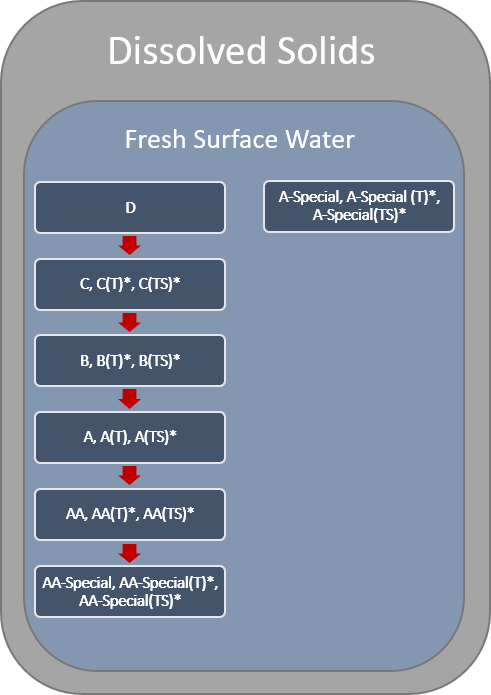
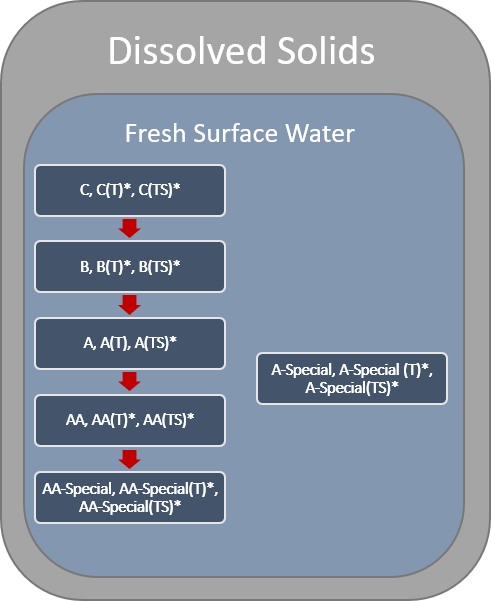
New rendering of the document.

diff --git a/docs/water-quality-standards.html b/docs/water-quality-standards.html
@@ -52,68 +52,6 @@
 
 
 
-<style type="text/css">
-a.sourceLine { display: inline-block; line-height: 1.25; }
-a.sourceLine { pointer-events: none; color: inherit; text-decoration: inherit; }
-a.sourceLine:empty { height: 1.2em; }
-.sourceCode { overflow: visible; }
-code.sourceCode { white-space: pre; position: relative; }
-pre.sourceCode { margin: 0; }
-@media screen {
-div.sourceCode { overflow: auto; }
-}
-@media print {
-code.sourceCode { white-space: pre-wrap; }
-a.sourceLine { text-indent: -1em; padding-left: 1em; }
-}
-pre.numberSource a.sourceLine
-  { position: relative; left: -4em; }
-pre.numberSource a.sourceLine::before
-  { content: attr(title);
-    position: relative; left: -1em; text-align: right; vertical-align: baseline;
-    border: none; pointer-events: all; display: inline-block;
-    -webkit-touch-callout: none; -webkit-user-select: none;
-    -khtml-user-select: none; -moz-user-select: none;
-    -ms-user-select: none; user-select: none;
-    padding: 0 4px; width: 4em;
-    color: #aaaaaa;
-  }
-pre.numberSource { margin-left: 3em; border-left: 1px solid #aaaaaa;  padding-left: 4px; }
-div.sourceCode
-  {  }
-@media screen {
-a.sourceLine::before { text-decoration: underline; }
-}
-code span.al { color: #ff0000; font-weight: bold; } /* Alert */
-code span.an { color: #60a0b0; font-weight: bold; font-style: italic; } /* Annotation */
-code span.at { color: #7d9029; } /* Attribute */
-code span.bn { color: #40a070; } /* BaseN */
-code span.bu { } /* BuiltIn */
-code span.cf { color: #007020; font-weight: bold; } /* ControlFlow */
-code span.ch { color: #4070a0; } /* Char */
-code span.cn { color: #880000; } /* Constant */
-code span.co { color: #60a0b0; font-style: italic; } /* Comment */
-code span.cv { color: #60a0b0; font-weight: bold; font-style: italic; } /* CommentVar */
-code span.do { color: #ba2121; font-style: italic; } /* Documentation */
-code span.dt { color: #902000; } /* DataType */
-code span.dv { color: #40a070; } /* DecVal */
-code span.er { color: #ff0000; font-weight: bold; } /* Error */
-code span.ex { } /* Extension */
-code span.fl { color: #40a070; } /* Float */
-code span.fu { color: #06287e; } /* Function */
-code span.im { } /* Import */
-code span.in { color: #60a0b0; font-weight: bold; font-style: italic; } /* Information */
-code span.kw { color: #007020; font-weight: bold; } /* Keyword */
-code span.op { color: #666666; } /* Operator */
-code span.ot { color: #007020; } /* Other */
-code span.pp { color: #bc7a00; } /* Preprocessor */
-code span.sc { color: #4070a0; } /* SpecialChar */
-code span.ss { color: #bb6688; } /* SpecialString */
-code span.st { color: #4070a0; } /* String */
-code span.va { color: #19177c; } /* Variable */
-code span.vs { color: #4070a0; } /* VerbatimString */
-code span.wa { color: #60a0b0; font-weight: bold; font-style: italic; } /* Warning */
-</style>
 
 </head>
 
@@ -133,8 +71,10 @@ code span.wa { color: #60a0b0; font-weight: bold; font-style: italic; } /* Warni
 <li class="chapter" data-level="2.2" data-path="calm.html"><a href="calm.html#data-modernization"><i class="fa fa-check"></i><b>2.2</b> Data Modernization</a></li>
 </ul></li>
 <li class="chapter" data-level="3" data-path="water-quality-standards.html"><a href="water-quality-standards.html"><i class="fa fa-check"></i><b>3</b> Water Quality Standards</a><ul>
-<li class="chapter" data-level="3.1" data-path="water-quality-standards.html"><a href="water-quality-standards.html#waterbody-class-hierarchy"><i class="fa fa-check"></i><b>3.1</b> Waterbody Class Hierarchy</a></li>
-<li class="chapter" data-level="3.2" data-path="water-quality-standards.html"><a href="water-quality-standards.html#waterbody-uses"><i class="fa fa-check"></i><b>3.2</b> Waterbody Uses</a></li>
+<li class="chapter" data-level="3.1" data-path="water-quality-standards.html"><a href="water-quality-standards.html#waterbody-class-hierarchy"><i class="fa fa-check"></i><b>3.1</b> Waterbody Class Hierarchy</a><ul>
+<li class="chapter" data-level="3.1.1" data-path="water-quality-standards.html"><a href="water-quality-standards.html#descrepencies"><i class="fa fa-check"></i><b>3.1.1</b> Descrepencies</a></li>
+</ul></li>
+<li class="chapter" data-level="3.2" data-path="water-quality-standards.html"><a href="water-quality-standards.html#designated-uses"><i class="fa fa-check"></i><b>3.2</b> Designated Uses</a></li>
 </ul></li>
 </ul>
 
@@ -155,31 +95,69 @@ code span.wa { color: #60a0b0; font-weight: bold; font-style: italic; } /* Warni
             <section class="normal" id="section-">
 <div id="water-quality-standards" class="section level1">
 <h1><span class="header-section-number">3</span> Water Quality Standards</h1>
-<p>Data was preprocessed to resemble the expected output from the athorotative databases that will become available as part of the Data Modernization effort <a href="calm.html#data-modernization">Data Modernization</a>.</p>
-<div class="sourceCode" id="cb1"><pre class="sourceCode r"><code class="sourceCode r"><a class="sourceLine" id="cb1-1" title="1"><span class="kw">data</span>(nysdec_wqs)</a></code></pre></div>
-<pre><code>## Warning in data(nysdec_wqs): data set &#39;nysdec_wqs&#39; not found</code></pre>
 <div id="waterbody-class-hierarchy" class="section level2">
 <h2><span class="header-section-number">3.1</span> Waterbody Class Hierarchy</h2>
-<p>Fresh and Saline Surface Water classes generally conform to a descending alphabetical hierarchy (Figure <a href="water-quality-standards.html#fig:wqs-general">3.1</a>).The saline surface water class I’s are only associated with secondary contact recreation and fishing, and therefore are treated independently of the other saline surface water classes. WQS assigned to upstream classes are applicable to all downstream classes. The most upstream class associated with a WQS will be refered to as the “root” class for a given standard. For example, WQS with a root of D and SD classes will be applicable to all downstream fresh surface water classes (i.e., C, B, A, A-Special, AA, AA-Special, and their associated Trout (T) and Trout Spawning (TS) variants) and saline surface water classes (i.e., SC, SB, and SA), respectively. In many instances, the WQS become increasingly more restrictive moving downstream through the hierarchy. D and SD represent the most upstream classes in fresh and saline surface waters, respectively, and therefore influence all other classes. However, D and SD classes do not always represent the root class for a given WQS.</p>
+<p>Fresh and saline surface water classes generally conform to a descending alphabetical hierarchy (Figure <a href="water-quality-standards.html#fig:wqs-general">3.1</a>). Class D represents the most upstream class of the fresh surface waters, while class AA-Special represents the most downstream class. Similarly, class SD represents the most upstream class of the saline surface waters, while class SA represents the most downstream class. The saline surface water class I’s are only associated with secondary contact recreation and fishing, and therefore are treated independently of the other saline surface water classes– the relationship between waterbody classes and designated uses is discussed further in the <a href="water-quality-standards.html#designated-uses">Designated Uses</a> section.</p>
 <div class="figure" style="text-align: center"><span id="fig:wqs-general"></span>
-<img src="images/wqs_logic/wqs-logic_general.png" alt="." width="348" />
+<img src="images/wqs_logic/wqs-logic_general.png" alt=" The general waterbody class hierarchy for which New York State Deparment of Environmental Conservation. Water quality standards are inherited in descending alphabetical order." width="800px" />
 <p class="caption">
-Figure 3.1: .
+Figure 3.1:  The general waterbody class hierarchy for which New York State Deparment of Environmental Conservation. Water quality standards are inherited in descending alphabetical order.
 </p>
 </div>
+<p>WQS assigned to upstream classes are inherited by all downstream classes. The most upstream class associated with a WQS will be refered to as the “root” class for a given standard. For example, WQS with a root of D and SD classes will be applicable to all downstream fresh surface water classes (i.e., C, B, A, A-Special, AA, AA-Special, and their associated Trout (T) and Trout Spawning (TS) variants) and saline surface water classes (i.e., SC, SB, and SA), respectively. In many instances, the WQSs become increasingly more restrictive moving downstream through the hierarchy. D and SD represent the most upstream classes in fresh and saline surface waters, respectively, and therefore influence all other classes. However, D and SD classes do not always represent the root class for a given WQS. Although most WQS are inherited according to this logic, there are multiple descrepencies.</p>
+<div id="descrepencies" class="section level3">
+<h3><span class="header-section-number">3.1.1</span> Descrepencies</h3>
+<p>The following WQS do not follow the logic depicted in Figure <a href="water-quality-standards.html#fig:wqs-general">3.1</a>.</p>
+<div id="aquatic-acute" class="section level4">
+<h4><span class="header-section-number">3.1.1.1</span> Aquatic (Acute)</h4>
+Aquatic (Acute) designates at type of WQS. The class hierarchy associated with Aquatic (Acute) WQSs are treated inconsistently by NYSDEC. In some instances the class hierarchy follows the rules depicted in Figure <a href="water-quality-standards.html#fig:wqs-general">3.1</a>, but there are multiple instances where Aquatic (Acute) WQSs are only applicable to fresh and saline surface water classes D and SD, respectively (Figure <a href="water-quality-standards.html#fig:wqs-aa">3.2</a>).
 <div class="figure" style="text-align: center"><span id="fig:wqs-aa"></span>
-<img src="images/wqs_logic/wqs-logic_aquatic_acute.png" alt="Many water quality standards of type, Aquatic (Acute), are only applicable for fresh and saline surface waters D and SD, respectively. Therefore, Aquatic (Acute) standards are not always inherited by the classes downstream of D and SD in their respective hierarchies. There is no standaridized logic dictating when Aquatic (Acute) water quality standards are or are not inherited by their descendants." width="335" />
+<img src="images/wqs_logic/wqs-logic_aquatic_acute.png" alt="Many water quality standards of type, Aquatic (Acute), are only applicable for fresh and saline surface waters D and SD, respectively. Therefore, Aquatic (Acute) standards are not always inherited by the classes downstream of D and SD in their respective hierarchies. There is no standaridized logic dictating when Aquatic (Acute) water quality standards are or are not inherited by their descendants." width="500px" />
 <p class="caption">
 Figure 3.2: Many water quality standards of type, Aquatic (Acute), are only applicable for fresh and saline surface waters D and SD, respectively. Therefore, Aquatic (Acute) standards are not always inherited by the classes downstream of D and SD in their respective hierarchies. There is no standaridized logic dictating when Aquatic (Acute) water quality standards are or are not inherited by their descendants.
 </p>
 </div>
-<p><img src="images/wqs_logic/wqs-logic_do-ammonia.png" width="368" style="display: block; margin: auto;" /></p>
-<p><img src="images/wqs_logic/wqs-logic_dissolved-solids.png" width="246" style="display: block; margin: auto;" /></p>
-<p><img src="images/wqs_logic/wqs-logic_total-coliforms.png" width="436" style="display: block; margin: auto;" /></p>
-<p><img src="images/wqs_logic/wqs-logic_fecal-coliforms.png" width="440" style="display: block; margin: auto;" /></p>
 </div>
-<div id="waterbody-uses" class="section level2">
-<h2><span class="header-section-number">3.2</span> Waterbody Uses</h2>
+<div id="trout-and-trout-spawning-waters" class="section level4">
+<h4><span class="header-section-number">3.1.1.2</span> Trout and Trout Spawning Waters</h4>
+<p>Fresh surface water classes C, B, A, A-Special, AA, and AA-Special have variants designating Trout (T) and Trout Spawning (TS) waterbodies (e.g., C(T) and C(TS)). For the majority of parameters, these variants have the same WQS as the non-T/TS waterbody classes (Figure <a href="water-quality-standards.html#fig:wqs-general">3.1</a>). Dissolved oxygen and ammonia as NH<sub>3</sub> WQS differ between non-T/TS, T, and TS waterbody class variants (Figure <a href="water-quality-standards.html#fig:wqs-do-ammonia">3.3</a>); non-T/TS variants have the least stringent standards, while TS variants have the most stringent standards.</p>
+<div class="figure" style="text-align: center"><span id="fig:wqs-do-ammonia"></span>
+<img src="images/wqs_logic/wqs-logic_do-ammonia.png" alt="New York State's fresh surface water dissolved oxygen and ammonia as NH~3~ water quality standards for class C, B, A, A-Special, AA, and AA-Special differ amoung Trout (T) and Trout Spawning (TS) class variants." width="800px" />
+<p class="caption">
+Figure 3.3: New York State’s fresh surface water dissolved oxygen and ammonia as NH<sub>3</sub> water quality standards for class C, B, A, A-Special, AA, and AA-Special differ amoung Trout (T) and Trout Spawning (TS) class variants.
+</p>
+</div>
+</div>
+<div id="dissolved-solids" class="section level4">
+<h4><span class="header-section-number">3.1.1.3</span> Dissolved Solids</h4>
+<p>The WQS for dissolved solids in fresh surface waters is defined as “Shall be kept as low as practicable to maintain the best usage of waters but in no case shall it exceed 500 mg/L.” for classes C, B, A, AA, and AA-Special (Figure <a href="water-quality-standards.html#fig:wqs-dissolved-solids">3.4</a>). The standard for class A-Special is “Shall not exceed 200 mg/L.” This deviates from the general logic depicted in Figure <a href="water-quality-standards.html#fig:wqs-general">3.1</a> becuase the A-Special class is more stringent than it’s downstream classes, AA and AA-Special.</p>
+<div class="figure" style="text-align: center"><span id="fig:wqs-dissolved-solids"></span>
+<img src="images/wqs_logic/wqs-logic_dissolved-solids.png" alt="New York State's fresh surface water dissolved solids water quality standards are more stringent for class A-Special than the other waterbody classes. This deviates from the general logic that the downstream classes (i.e., AA and AA-Special) will inherit the standards of class A-Special." width="600px" />
+<p class="caption">
+Figure 3.4: New York State’s fresh surface water dissolved solids water quality standards are more stringent for class A-Special than the other waterbody classes. This deviates from the general logic that the downstream classes (i.e., AA and AA-Special) will inherit the standards of class A-Special.
+</p>
+</div>
+</div>
+<div id="total-and-fecal-coliforms" class="section level4">
+<h4><span class="header-section-number">3.1.1.4</span> Total and Fecal Coliforms</h4>
+The WQSs for total and fecal coliforms in fresh surface waters follow the logic dictated in Figure <a href="water-quality-standards.html#fig:wqs-general">3.1</a>, except there is no total coliform standard appicable to class AA-Special (Figure <a href="water-quality-standards.html#fig:wqs-total-coliforms">3.5</a>) and there are no fecal coliform standards appicable to class AA or AA-Special (Figure <a href="water-quality-standards.html#fig:wqs-fecal-coliforms">3.6</a>).
+<div class="figure" style="text-align: center"><span id="fig:wqs-total-coliforms"></span>
+<img src="images/wqs_logic/wqs-logic_total-coliforms.png" alt="There is no total coliform standard defined for fresh water surface class AA-Special in New York State." width="600px" />
+<p class="caption">
+Figure 3.5: There is no total coliform standard defined for fresh water surface class AA-Special in New York State.
+</p>
+</div>
+<div class="figure" style="text-align: center"><span id="fig:wqs-fecal-coliforms"></span>
+<img src="images/wqs_logic/wqs-logic_fecal-coliforms.png" alt="There are no fecal coliform standards defined for fresh water surface classes AA or AA-Special in New York State." width="600px" />
+<p class="caption">
+Figure 3.6: There are no fecal coliform standards defined for fresh water surface classes AA or AA-Special in New York State.
+</p>
+</div>
+</div>
+</div>
+</div>
+<div id="designated-uses" class="section level2">
+<h2><span class="header-section-number">3.2</span> Designated Uses</h2>
 
 </div>
 </div>

diff --git a/docs/calm.html b/docs/calm.html
@@ -52,68 +52,6 @@
 
 
 
-<style type="text/css">
-a.sourceLine { display: inline-block; line-height: 1.25; }
-a.sourceLine { pointer-events: none; color: inherit; text-decoration: inherit; }
-a.sourceLine:empty { height: 1.2em; }
-.sourceCode { overflow: visible; }
-code.sourceCode { white-space: pre; position: relative; }
-pre.sourceCode { margin: 0; }
-@media screen {
-div.sourceCode { overflow: auto; }
-}
-@media print {
-code.sourceCode { white-space: pre-wrap; }
-a.sourceLine { text-indent: -1em; padding-left: 1em; }
-}
-pre.numberSource a.sourceLine
-  { position: relative; left: -4em; }
-pre.numberSource a.sourceLine::before
-  { content: attr(title);
-    position: relative; left: -1em; text-align: right; vertical-align: baseline;
-    border: none; pointer-events: all; display: inline-block;
-    -webkit-touch-callout: none; -webkit-user-select: none;
-    -khtml-user-select: none; -moz-user-select: none;
-    -ms-user-select: none; user-select: none;
-    padding: 0 4px; width: 4em;
-    color: #aaaaaa;
-  }
-pre.numberSource { margin-left: 3em; border-left: 1px solid #aaaaaa;  padding-left: 4px; }
-div.sourceCode
-  {  }
-@media screen {
-a.sourceLine::before { text-decoration: underline; }
-}
-code span.al { color: #ff0000; font-weight: bold; } /* Alert */
-code span.an { color: #60a0b0; font-weight: bold; font-style: italic; } /* Annotation */
-code span.at { color: #7d9029; } /* Attribute */
-code span.bn { color: #40a070; } /* BaseN */
-code span.bu { } /* BuiltIn */
-code span.cf { color: #007020; font-weight: bold; } /* ControlFlow */
-code span.ch { color: #4070a0; } /* Char */
-code span.cn { color: #880000; } /* Constant */
-code span.co { color: #60a0b0; font-style: italic; } /* Comment */
-code span.cv { color: #60a0b0; font-weight: bold; font-style: italic; } /* CommentVar */
-code span.do { color: #ba2121; font-style: italic; } /* Documentation */
-code span.dt { color: #902000; } /* DataType */
-code span.dv { color: #40a070; } /* DecVal */
-code span.er { color: #ff0000; font-weight: bold; } /* Error */
-code span.ex { } /* Extension */
-code span.fl { color: #40a070; } /* Float */
-code span.fu { color: #06287e; } /* Function */
-code span.im { } /* Import */
-code span.in { color: #60a0b0; font-weight: bold; font-style: italic; } /* Information */
-code span.kw { color: #007020; font-weight: bold; } /* Keyword */
-code span.op { color: #666666; } /* Operator */
-code span.ot { color: #007020; } /* Other */
-code span.pp { color: #bc7a00; } /* Preprocessor */
-code span.sc { color: #4070a0; } /* SpecialChar */
-code span.ss { color: #bb6688; } /* SpecialString */
-code span.st { color: #4070a0; } /* String */
-code span.va { color: #19177c; } /* Variable */
-code span.vs { color: #4070a0; } /* VerbatimString */
-code span.wa { color: #60a0b0; font-weight: bold; font-style: italic; } /* Warning */
-</style>
 
 </head>
 
@@ -133,8 +71,10 @@ code span.wa { color: #60a0b0; font-weight: bold; font-style: italic; } /* Warni
 <li class="chapter" data-level="2.2" data-path="calm.html"><a href="calm.html#data-modernization"><i class="fa fa-check"></i><b>2.2</b> Data Modernization</a></li>
 </ul></li>
 <li class="chapter" data-level="3" data-path="water-quality-standards.html"><a href="water-quality-standards.html"><i class="fa fa-check"></i><b>3</b> Water Quality Standards</a><ul>
-<li class="chapter" data-level="3.1" data-path="water-quality-standards.html"><a href="water-quality-standards.html#waterbody-class-hierarchy"><i class="fa fa-check"></i><b>3.1</b> Waterbody Class Hierarchy</a></li>
-<li class="chapter" data-level="3.2" data-path="water-quality-standards.html"><a href="water-quality-standards.html#waterbody-uses"><i class="fa fa-check"></i><b>3.2</b> Waterbody Uses</a></li>
+<li class="chapter" data-level="3.1" data-path="water-quality-standards.html"><a href="water-quality-standards.html#waterbody-class-hierarchy"><i class="fa fa-check"></i><b>3.1</b> Waterbody Class Hierarchy</a><ul>
+<li class="chapter" data-level="3.1.1" data-path="water-quality-standards.html"><a href="water-quality-standards.html#descrepencies"><i class="fa fa-check"></i><b>3.1.1</b> Descrepencies</a></li>
+</ul></li>
+<li class="chapter" data-level="3.2" data-path="water-quality-standards.html"><a href="water-quality-standards.html#designated-uses"><i class="fa fa-check"></i><b>3.2</b> Designated Uses</a></li>
 </ul></li>
 </ul>
 

diff --git a/docs/index.html b/docs/index.html
@@ -52,68 +52,6 @@
 
 
 
-<style type="text/css">
-a.sourceLine { display: inline-block; line-height: 1.25; }
-a.sourceLine { pointer-events: none; color: inherit; text-decoration: inherit; }
-a.sourceLine:empty { height: 1.2em; }
-.sourceCode { overflow: visible; }
-code.sourceCode { white-space: pre; position: relative; }
-pre.sourceCode { margin: 0; }
-@media screen {
-div.sourceCode { overflow: auto; }
-}
-@media print {
-code.sourceCode { white-space: pre-wrap; }
-a.sourceLine { text-indent: -1em; padding-left: 1em; }
-}
-pre.numberSource a.sourceLine
-  { position: relative; left: -4em; }
-pre.numberSource a.sourceLine::before
-  { content: attr(title);
-    position: relative; left: -1em; text-align: right; vertical-align: baseline;
-    border: none; pointer-events: all; display: inline-block;
-    -webkit-touch-callout: none; -webkit-user-select: none;
-    -khtml-user-select: none; -moz-user-select: none;
-    -ms-user-select: none; user-select: none;
-    padding: 0 4px; width: 4em;
-    color: #aaaaaa;
-  }
-pre.numberSource { margin-left: 3em; border-left: 1px solid #aaaaaa;  padding-left: 4px; }
-div.sourceCode
-  {  }
-@media screen {
-a.sourceLine::before { text-decoration: underline; }
-}
-code span.al { color: #ff0000; font-weight: bold; } /* Alert */
-code span.an { color: #60a0b0; font-weight: bold; font-style: italic; } /* Annotation */
-code span.at { color: #7d9029; } /* Attribute */
-code span.bn { color: #40a070; } /* BaseN */
-code span.bu { } /* BuiltIn */
-code span.cf { color: #007020; font-weight: bold; } /* ControlFlow */
-code span.ch { color: #4070a0; } /* Char */
-code span.cn { color: #880000; } /* Constant */
-code span.co { color: #60a0b0; font-style: italic; } /* Comment */
-code span.cv { color: #60a0b0; font-weight: bold; font-style: italic; } /* CommentVar */
-code span.do { color: #ba2121; font-style: italic; } /* Documentation */
-code span.dt { color: #902000; } /* DataType */
-code span.dv { color: #40a070; } /* DecVal */
-code span.er { color: #ff0000; font-weight: bold; } /* Error */
-code span.ex { } /* Extension */
-code span.fl { color: #40a070; } /* Float */
-code span.fu { color: #06287e; } /* Function */
-code span.im { } /* Import */
-code span.in { color: #60a0b0; font-weight: bold; font-style: italic; } /* Information */
-code span.kw { color: #007020; font-weight: bold; } /* Keyword */
-code span.op { color: #666666; } /* Operator */
-code span.ot { color: #007020; } /* Other */
-code span.pp { color: #bc7a00; } /* Preprocessor */
-code span.sc { color: #4070a0; } /* SpecialChar */
-code span.ss { color: #bb6688; } /* SpecialString */
-code span.st { color: #4070a0; } /* String */
-code span.va { color: #19177c; } /* Variable */
-code span.vs { color: #4070a0; } /* VerbatimString */
-code span.wa { color: #60a0b0; font-weight: bold; font-style: italic; } /* Warning */
-</style>
 
 </head>
 
@@ -133,8 +71,10 @@ code span.wa { color: #60a0b0; font-weight: bold; font-style: italic; } /* Warni
 <li class="chapter" data-level="2.2" data-path="calm.html"><a href="calm.html#data-modernization"><i class="fa fa-check"></i><b>2.2</b> Data Modernization</a></li>
 </ul></li>
 <li class="chapter" data-level="3" data-path="water-quality-standards.html"><a href="water-quality-standards.html"><i class="fa fa-check"></i><b>3</b> Water Quality Standards</a><ul>
-<li class="chapter" data-level="3.1" data-path="water-quality-standards.html"><a href="water-quality-standards.html#waterbody-class-hierarchy"><i class="fa fa-check"></i><b>3.1</b> Waterbody Class Hierarchy</a></li>
-<li class="chapter" data-level="3.2" data-path="water-quality-standards.html"><a href="water-quality-standards.html#waterbody-uses"><i class="fa fa-check"></i><b>3.2</b> Waterbody Uses</a></li>
+<li class="chapter" data-level="3.1" data-path="water-quality-standards.html"><a href="water-quality-standards.html#waterbody-class-hierarchy"><i class="fa fa-check"></i><b>3.1</b> Waterbody Class Hierarchy</a><ul>
+<li class="chapter" data-level="3.1.1" data-path="water-quality-standards.html"><a href="water-quality-standards.html#descrepencies"><i class="fa fa-check"></i><b>3.1.1</b> Descrepencies</a></li>
+</ul></li>
+<li class="chapter" data-level="3.2" data-path="water-quality-standards.html"><a href="water-quality-standards.html#designated-uses"><i class="fa fa-check"></i><b>3.2</b> Designated Uses</a></li>
 </ul></li>
 </ul>
 
